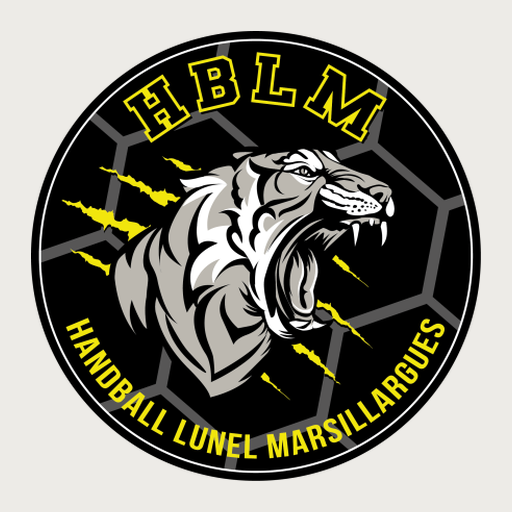
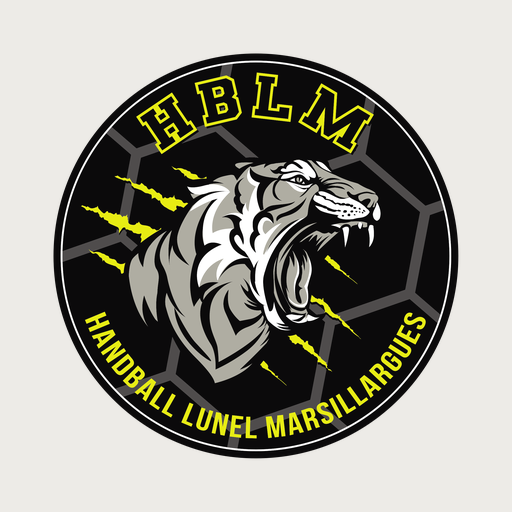
feat: passer le blason au vectoriel et poser le filigrane du hero
Le club a fourni logo-hblm.ai (Illustrator 27, 2022). C'est un PDF déguisé,
sans aucun bitmap et textes déjà vectorisés — vérifié avec pdfimages -list et
pdffonts, qui ne retournent rien ni l'un ni l'autre.

    pdftocairo -svg assets/logo-hblm.ai /tmp/logo-brut.svg
    npx svgo@3 /tmp/logo-brut.svg -o src/assets/logo.svg --precision=1 --multipass
    # puis width/height "500pt" -> "500"

--precision=1 fait passer le fichier de 357 Ko à 55 Ko (23 Ko compressé) sans
différence visible, comparé côte à côte avec precision=2 au navigateur, texte
circulaire et rayures du tigre compris.

Logo.astro rend maintenant une <img> nue plutôt que le <Image> d'astro:assets.
<Image> traite le SVG comme une image à décliner et en écrivait une COPIE par
taille demandée : le build sortait six fichiers de 56 Ko rigoureusement
identiques à six URL différentes, et le visiteur retéléchargeait le même blason
en passant du header au footer. Une seule URL désormais, 340 Ko économisés dans
dist/ et un cache qui sert enfin à quelque chose. Un SVG n'a de toute façon
rien à faire redimensionner au build.

Les déclinaisons de public/ sont refaites depuis un rendu 2084x2084 du
vectoriel (pdftocairo -png -r 300 -transp), bien plus net que l'ancienne source
de 432px, avec le même script que le commit précédent à la source près.

Le filigrane du hero d'accueil devient possible, puisqu'il n'y a plus de taille
maximale : blason à 7 % d'opacité, calé à droite du titre. Le seuil de 1200px
[…]

diff --git a/src/assets/README.md b/src/assets/README.md
@@ -7,32 +7,55 @@ de personne identifiable.
 
 | Fichier | Ce que c'est |
 |---|---|
-| `logo.webp` | Blason officiel du club, 432x432, fond transparent |
+| `logo.svg` | Blason officiel du club, vectoriel, 500x500 dans son `viewBox` |
 
 ## Le blason
 
 Il est servi par le composant `src/components/Logo.astro`, qui est le **seul**
-point d'entrée : ne pas importer `logo.webp` directement dans une page.
+point d'entrée : ne pas importer `logo.svg` directement dans une page.
 
-Limite à connaître : la source est **raster**, 432x432. Au-delà d'environ 216px
-de rendu, le 2x demandé par `Logo.astro` n'est plus tenable et l'image
-s'adoucit. Les emplacements actuels (34px header, 44px footer, 96px page Le
-club, 120px page 404) restent largement en dessous.
+Il est **vectoriel**, donc net à n'importe quelle taille : le même fichier sert
+le blason de 36px du header et le filigrane de 520px du hero d'accueil. Il n'y a
+plus de taille maximale à surveiller — c'était le cas de la première version,
+tirée d'un PNG de 432px.
 
-Un **filigrane en grand format dans le hero d'accueil** a été écarté pour cette
-raison : il demande un fichier vectoriel. Si un SVG du blason est transmis par
-le club, c'est ici qu'il se pose, et `Logo.astro` s'en sert à la place.
+### D'où il vient, et comment le refabriquer
+
+La source est `logo-hblm.ai` (Illustrator 27, 2022), transmis par le club et
+conservé dans `/assets/` à la racine, non versionné. C'est un PDF déguisé, sans
+aucun bitmap et avec les textes déjà vectorisés — vérifiable avec
+`pdfimages -list` et `pdffonts`, qui ne doivent rien retourner.
+
+```sh
+pdftocairo -svg assets/logo-hblm.ai /tmp/logo-brut.svg
+npx svgo@3 /tmp/logo-brut.svg -o src/assets/logo.svg --precision=1 --multipass
+# puis remplacer width="500pt" height="500pt" par width="500" height="500"
+```
+
+`--precision=1` fait passer le fichier de 357 Ko à 55 Ko (23 Ko une fois
+compressé par le serveur) sans différence visible, y compris sur le texte
+circulaire et les rayures du tigre — comparé côte à côte avec `precision=2` au
+navigateur avant de trancher.
 
 ### Les déclinaisons dans `public/`
 
 `favicon.ico`, `favicon-32.png`, `apple-touch-icon.png`, `icon-512.png` et
-`og-image.jpg` sont dérivés de ce même fichier. Ils vivent dans `public/` et non
+`og-image.jpg` sont dérivés du même fichier Illustrator, via un rendu PNG de
+2084x2084 (`pdftocairo -png -r 300 -transp`). Ils vivent dans `public/` et non
 ici parce que des clients extérieurs — l'onglet du navigateur, le robot
 d'aperçu de Facebook ou WhatsApp — les réclament à une URL **fixe**, ce que le
 pipeline d'images d'Astro ne garantit pas puisqu'il hache les noms de fichiers.
 
-Ils ne sont pas régénérés au build : si `logo.webp` change, les refabriquer. Le
-script qui les a produits est dans le message du commit qui les a introduits.
+Ils ne sont pas régénérés au build : si le blason change, les refabriquer avec
+le script donné dans le message du commit qui les a introduits.
 `apple-touch-icon.png` et `icon-512.png` reçoivent un fond `#EDEBE7` car iOS et
 Android aplatissent la transparence sur du noir, ce qui masquerait le disque
 noir du blason.
+
+## Le filigrane du hero
+
+`src/pages/index.astro` pose le blason en filigrane à droite du titre d'accueil,
+à 7 % d'opacité, au-dessus de 1200px de large seulement. Ce seuil est **mesuré**,
+pas arbitraire : en dessous, le filigrane passe derrière le texte au lieu de
+l'accompagner. Le raisonnement complet est dans le commentaire CSS, à lire avant
+de toucher à la taille, au seuil ou au décalage.
